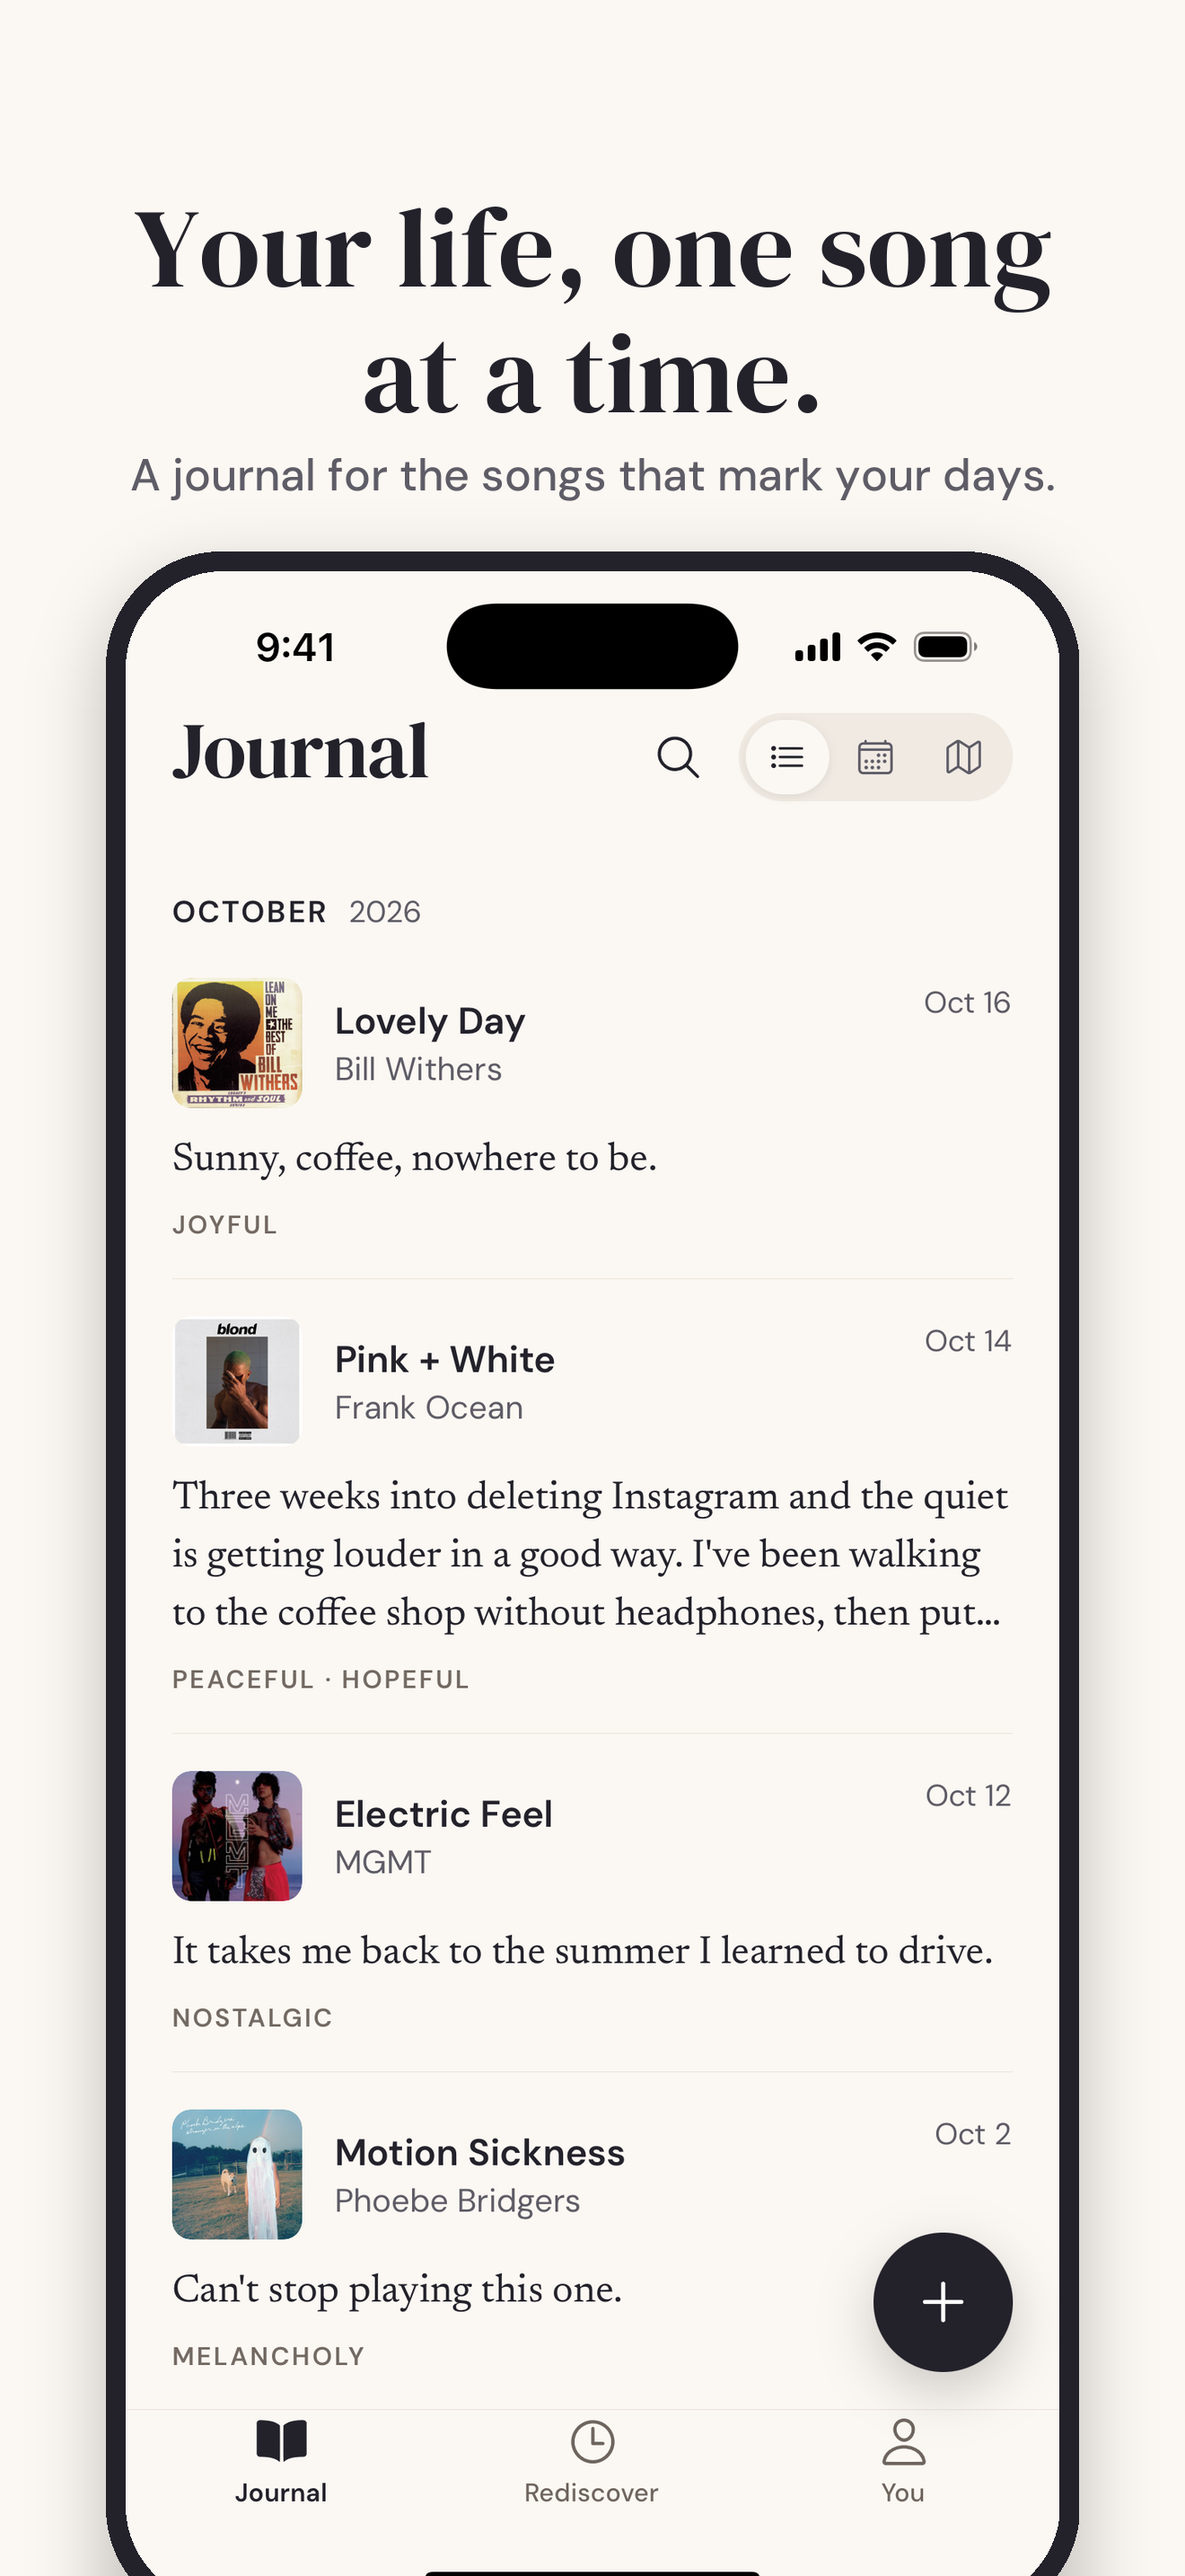
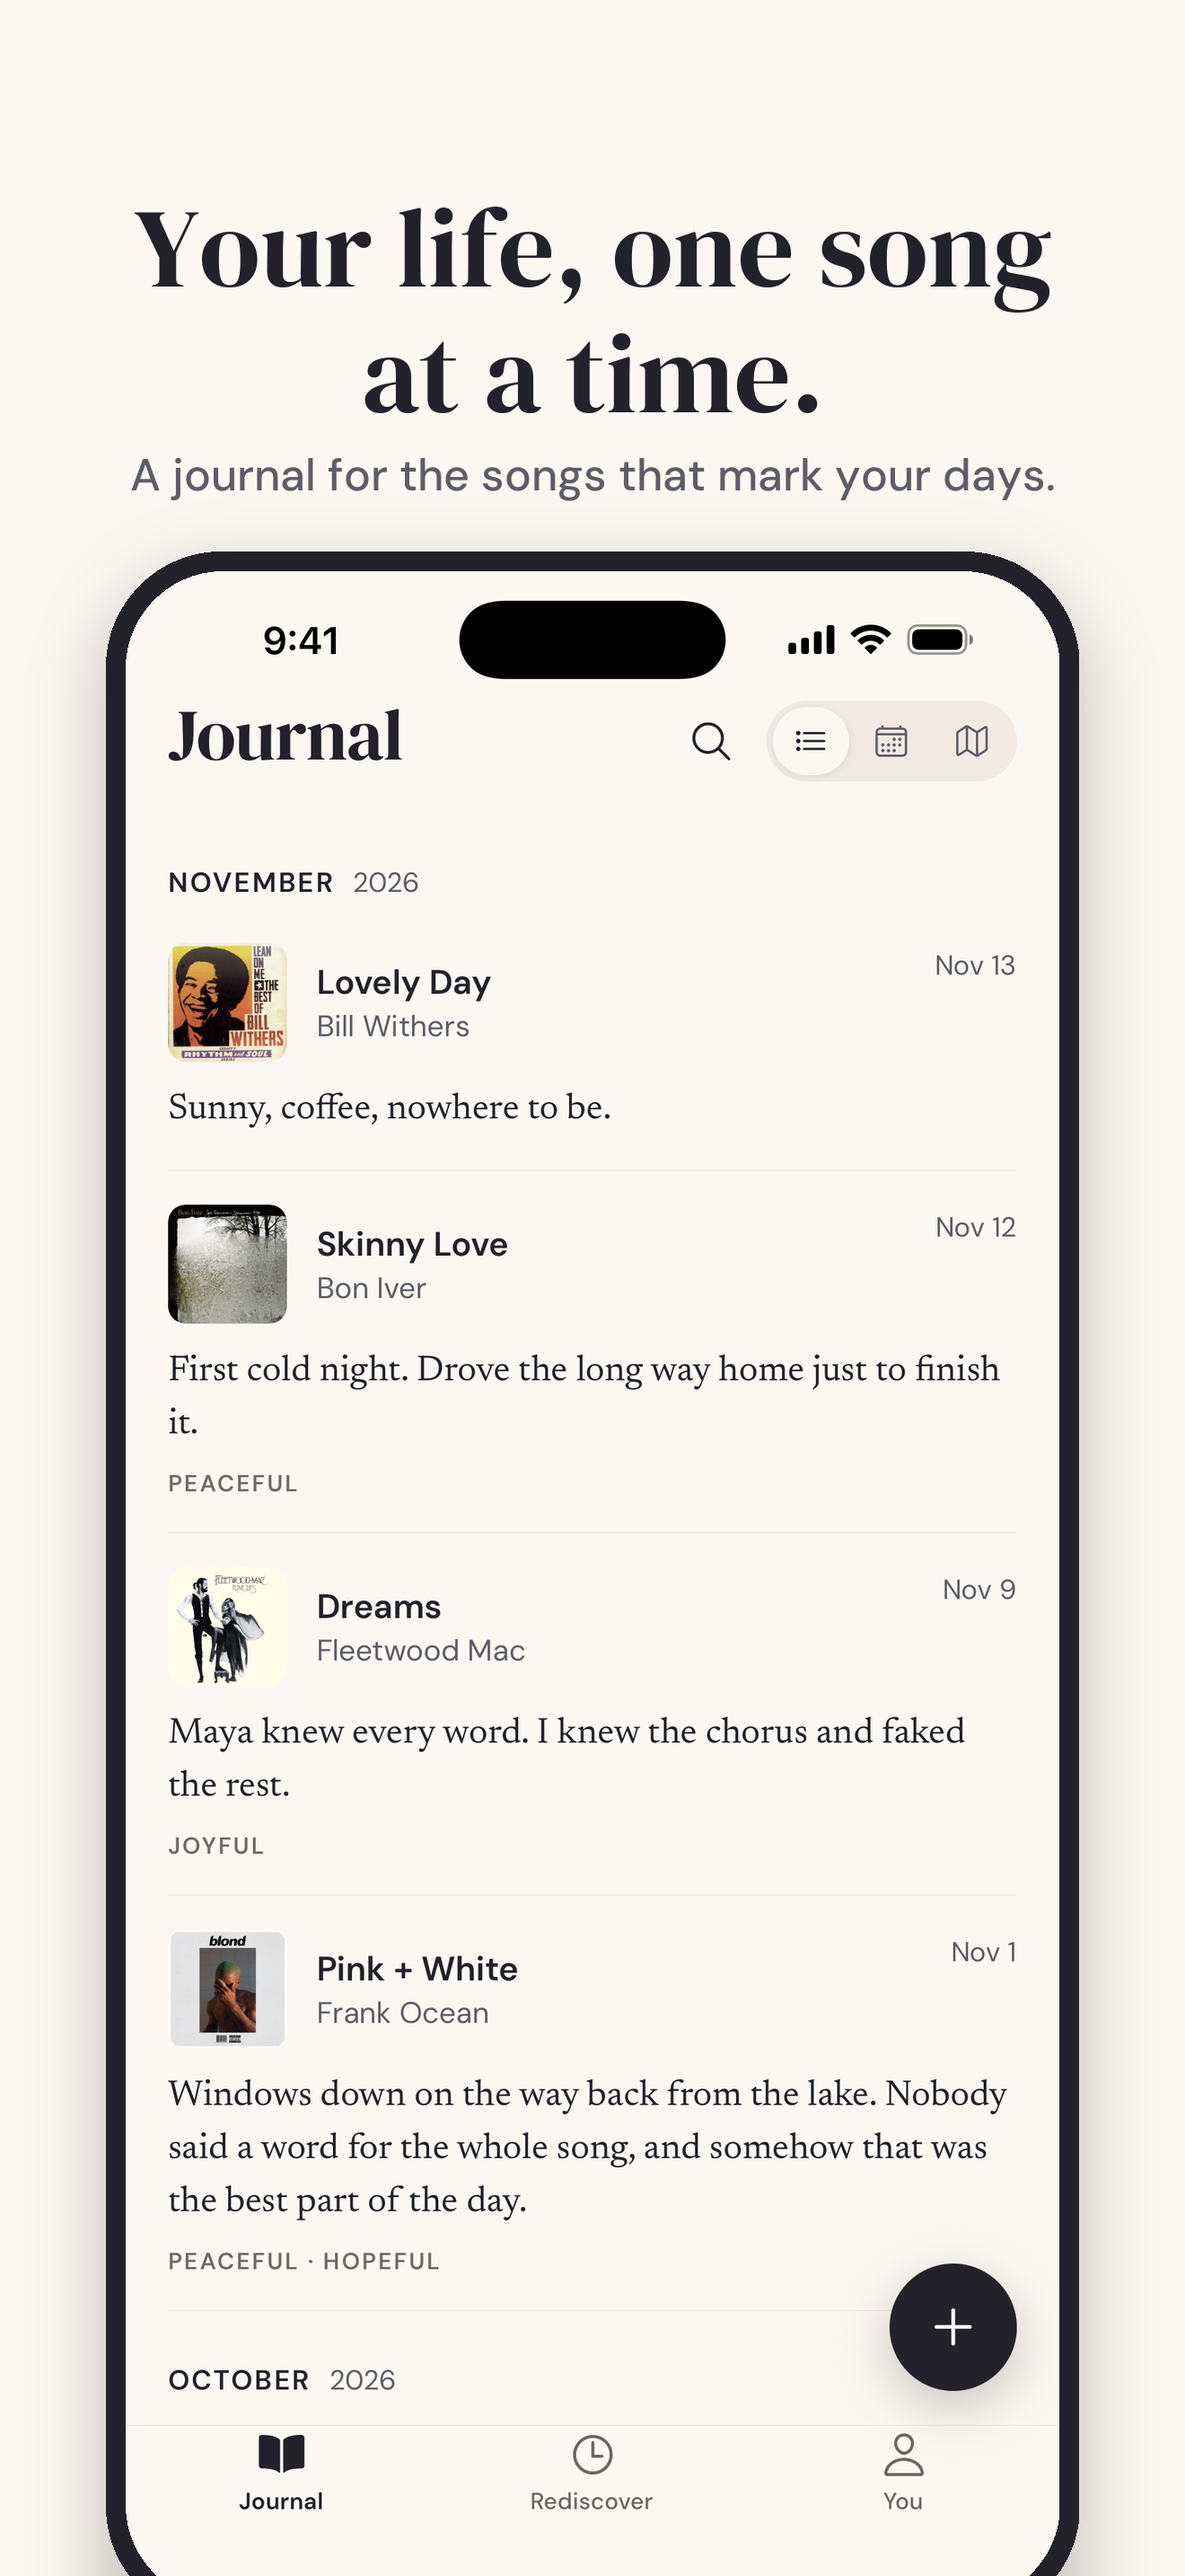
docs: App Store screenshots of the 1.3.1 look
Five of the six 6.9" screenshots retaken on the new design (journal, entry,
capture, Rediscover, dark entry) from a demo account on prod, since staging
is paused. The widget frame is unchanged. Roadmap: 1.3.1 builds ticked.

diff --git a/docs/ROADMAP.md b/docs/ROADMAP.md
@@ -75,11 +75,15 @@ the review waves (#58–#64) merged, so the store's 1.3.0 doesn't have them.
 Beta build 36 does. 1.3.1 is that beta, as a store build. No app code
 changed since build 36.
 - [x] Version bump to 1.3.1 (release PR).
-- [ ] Beta builds from the release commit (`preview`, `preview-simulator`);
+- [x] Beta builds from the release commit (`preview`, `preview-simulator`);
   the bump moves the preview fingerprint.
-- [ ] Production build, submitted to App Store Connect.
-- [ ] **Josh:** TestFlight pass, then the 1.3.1 version in App Store Connect
-  (attach the build, What's New), submit for review, release.
+- [x] Production build (build 10), submitted to App Store Connect.
+- [x] New 6.9" store screenshots of the new look (2026-11-14). Taken from a
+  demo account on prod (`demo@soundtracks.test`, notifications off), since
+  staging is paused. The widget frame is unchanged.
+- [ ] **Josh:** TestFlight pass (done), then the 1.3.1 version in App Store
+  Connect (attach build 10, What's New, upload the new screenshots and delete
+  any smaller-iPhone sets), submit for review, release.
 - [ ] After it's live: raise the min-build gate, which unblocks DB-2 (RLS
   hardening step 2).
 - [x] E2E green on `main` so the promote path works for JS fixes (PR #33:
